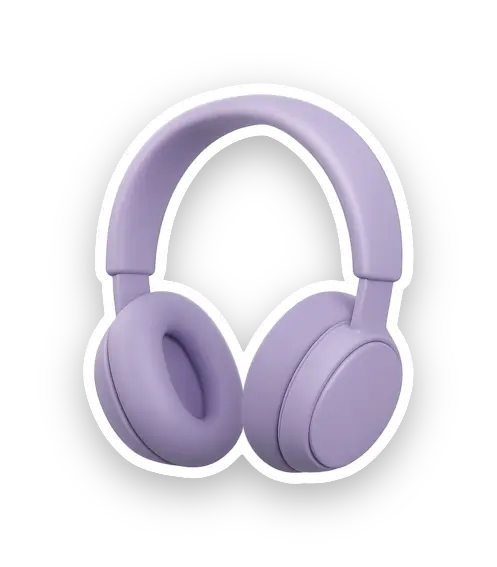
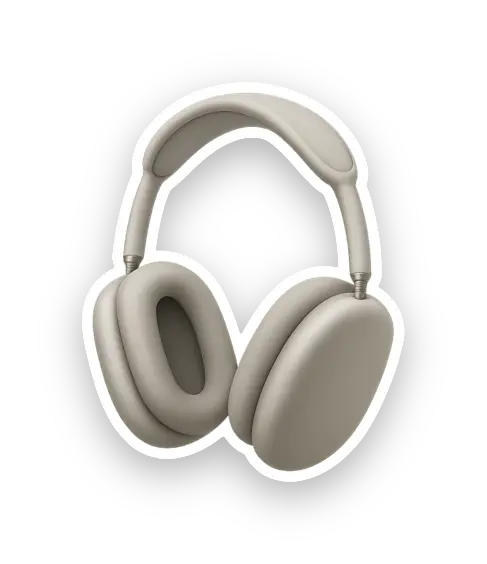
Stickers in a more grown-up Apple-emoji style: headphones and picture (intro) recreated from the reference, calmer teddy bear
Claude-Session: https://claude.ai/code/session_01Wr2iWW49QdC247c3mhzHY7

Changed region(s): [[0.154, 0.1507, 0.8624, 0.8741]]

diff --git a/web/src/App.jsx b/web/src/App.jsx
@@ -402,7 +402,7 @@ const useT = () => useContext(LangCtx);
 // Wish icons are image stickers (web/public/stickers/<name>.webp), stored in
 // the wish's `emoji` field as "stk:<name>" and drawn by <Sticker> with the
 // same white outline as emoji. Older wishes keep their plain emoji.
-const STICKERS = ["candle", "ghost", "coconut", "shell", "uno", "orange", "matcha", "flower", "bear", "plumbob", "bag", "qblock", "cake", "gift", "piggy", "headphones", "book", "sneakers", "lipstick", "plane", "ring", "gamepad"];
+const STICKERS = ["candle", "ghost", "coconut", "shell", "uno", "orange", "matcha", "flower", "bear", "plumbob", "bag", "qblock", "cake", "gift", "piggy", "headphones", "book", "sneakers", "lipstick", "plane", "teddy", "ring", "picture", "gamepad"];
 const WISH_EMOJI = STICKERS.map(n => "stk:" + n);
 
 /* ---------- little ui atoms ---------- */
@@ -2832,7 +2832,7 @@ function BirthdaySheet({ birthday, onSave, onClose }) {
   );
 }
 // First-launch intro: three cards with a sticker, swipe-free, Next / Skip.
-const ONBOARD = [["stk:bag", "ob1Title", "ob1Text"], ["stk:house", "ob2Title", "ob2Text"], ["stk:ghost", "ob3Title", "ob3Text"]];
+const ONBOARD = [["stk:bag", "ob1Title", "ob1Text"], ["stk:picture", "ob2Title", "ob2Text"], ["stk:ghost", "ob3Title", "ob3Text"]];
 function Onboarding({ onDone }) {
   const { t } = useT();
   const [i, setI] = useState(0);
